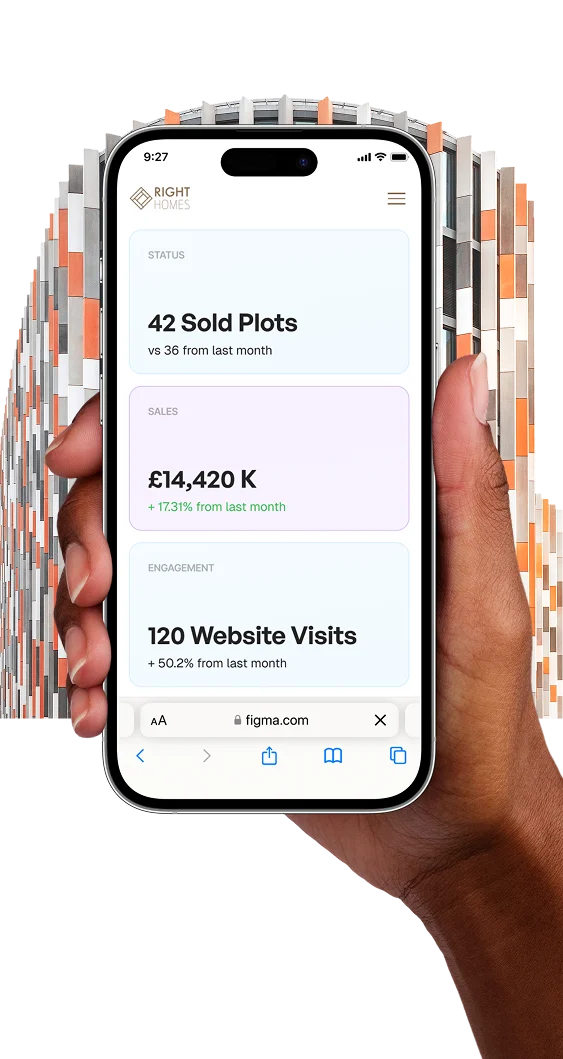
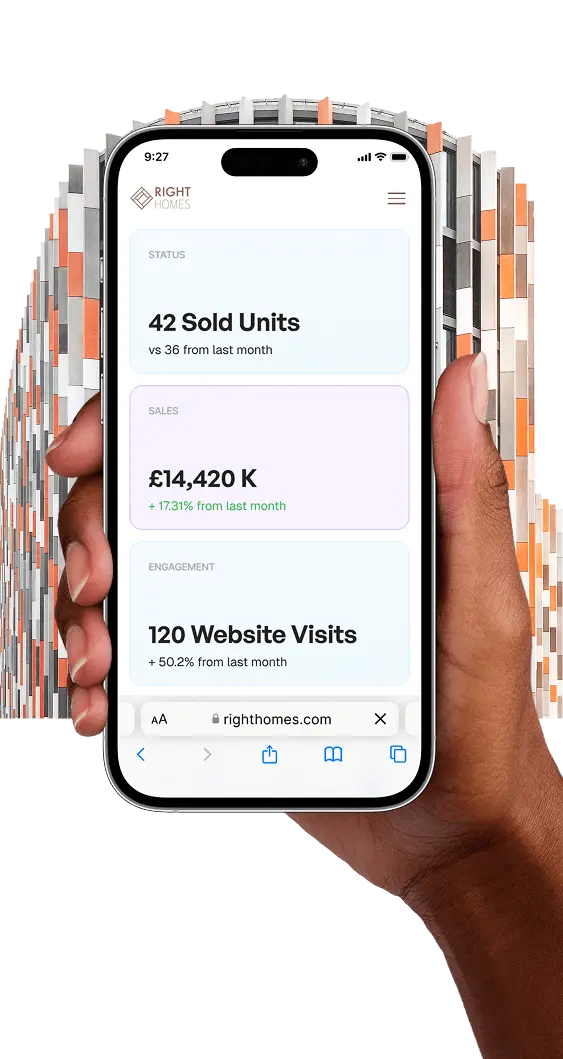
updating mobile image and gallary code.

diff --git a/src/view/components/made-to-fit/horizontal-gallery.tsx b/src/view/components/made-to-fit/horizontal-gallery.tsx
@@ -14,73 +14,41 @@ export default function HorizontalGallery({
   galleryInnerSelector?: string;
   pinSelector?: string;
 }) {
-  const horizontalPinTl = useRef<gsap.core.Timeline | null>(null);
+  const horizontalPinTl = useRef<gsap.core.Timeline>(null);
 
   const horizontalPin = useCallback(() => {
-    const inner = document.querySelector(galleryInnerSelector);
+    console.log("horizontalPin");
+    const inner = document?.querySelector(galleryInnerSelector);
     const items = gsap.utils.toArray(
       inner?.querySelectorAll(".item") || []
     ) as HTMLElement[];
 
     if (!inner || items.length === 0) return;
-
-    // --------- Responsive parameters ---------
-    const isMobile = window.innerWidth <= 768;
-    const is4K = window.innerWidth >= 3840; // proper 4K threshold
-
     const mobileOffsetStep = window.innerWidth / 12;
     const mobileElementWidth = window.innerWidth * 0.68;
+    const offsetStep = window.innerWidth <= 768 ? mobileOffsetStep : 96; // pixels each one starts lower than the last
+    const gapStep = window.innerWidth <= 768 ? 60 : window.innerWidth * 0.053; // gap between items
 
-    // Vertical offset between images
-    const offsetStep = isMobile
-      ? mobileOffsetStep
-      : is4K
-      ? 180 // increased vertical separation for 4K
-      : 96;
-
-    // Horizontal gap scaling
-    const gapStep = isMobile
-      ? 60
-      : is4K
-      ? window.innerWidth * 0.045 // visually balanced for 4K wide screens
-      : window.innerWidth * 0.053;
-
-    // Apply initial Y offset for stacked layout
+    // 1) set up initial vertical offsets
     items.forEach((el, i) => {
       gsap.set(el, { y: offsetStep * i });
     });
 
-    // --------- Scroll distance ---------
-    const baseWidth = isMobile
-      ? mobileElementWidth
-      : is4K
-      ? 1100 // each image width on 4K
-      : 680;
-
-    let compensation;
-
-    if (isMobile) {
-      compensation = window.innerWidth - baseWidth * 0.95;
-    } else if (is4K) {
-      // more accurate correction: accounts for container padding and visual offset
-      compensation = window.innerWidth - baseWidth * 2.2;
-    } else {
-      compensation = window.innerWidth - baseWidth * 1.1;
-    }
-
+    // Calculate scroll distance more precisely
     const scrollDistance =
-      (baseWidth + gapStep) * (items.length - 1) - compensation;
-
+      window.innerWidth <= 768
+        ? mobileElementWidth * (items.length - 1.5) +
+          gapStep * (items.length - 1.5)
+        : 680 * (items.length - 2.8) + gapStep * (items.length - 2.8);
     const slideDuration = 1;
+    // timeline length = one chunk per slide
     const totalDuration = slideDuration * (items.length + 1);
-
-    // --------- Timeline setup ---------
     horizontalPinTl.current = gsap.timeline({
       scrollTrigger: {
         trigger: inner,
         start: "center center",
         end: () => `+=${scrollDistance}`,
-        scrub: 1,
+        scrub: 1, // Add some smoothness
         pin: pinSelector,
         pinSpacing: true,
         id: pinId,
@@ -89,42 +57,48 @@ export default function HorizontalGallery({
       },
     });
 
+    // Horizontal movement with precise calculation
     horizontalPinTl.current.to(
       inner,
       {
         x: () => `-${scrollDistance}px`,
         y: () => `-${offsetStep * (items.length - 2.8)}px`,
+        // x: () => -(inner?.scrollWidth ?? 0) * 0.6,
         ease: "none",
         duration: totalDuration,
       },
-      "start"
+      "start+=0"
     );
   }, [galleryInnerSelector, pinId, pinSelector]);
-
-  // --------- Mount ---------
   useEffect(() => {
     setTimeout(() => {
+      // Wait for DOM to be ready
       horizontalPin();
-    }, 150);
-
+    }, 100);
     return () => {
-      horizontalPinTl.current?.scrollTrigger?.kill();
-      horizontalPinTl.current?.kill();
+      // Clean up any ScrollTriggers for this component
+      if (horizontalPinTl.current) {
+        horizontalPinTl.current?.scrollTrigger?.kill();
+        horizontalPinTl.current.kill();
+      }
     };
   }, [images, horizontalPin]);
-
-  // --------- Resize refresh ---------
   useEffect(() => {
     const handleResize = () => {
+      // Debounce resize to avoid excessive recalculations
       horizontalPinTl.current?.scrollTrigger?.refresh();
     };
+
     window.addEventListener("resize", handleResize);
-    return () => window.removeEventListener("resize", handleResize);
-  }, []);
+
+    return () => {
+      window.removeEventListener("resize", handleResize);
+    };
+  }, [horizontalPin]);
 
   return (
     <div className="gallery relative z-[8] overflow-visible min-h-full lg:min-h-[75vw] max-w-[100vw]">
-      <div className="rp-container pl-[5rem] mx-auto w-full 4k:[padding-left:clamp(5rem,calc(5rem+((100vw-2050px)/2000px)*5rem),10rem)] lg:px-4">
+      <div className="max-w-[1680px] mx-auto w-full 4k:[padding-left:clamp(5rem,calc(5rem+((100vw-2050px)/2000px)*5rem),10rem)] lg:px-4">
         <div className="gallery__inner flex h-full gap-[3.75rem] lg:gap-[5vw] 4k:[gap:clamp(3.75rem,calc(3.75rem+((100vw-2050px)/2000px)*3.75rem),7.5rem)]">
           {images.map((image, index) => (
             <img
